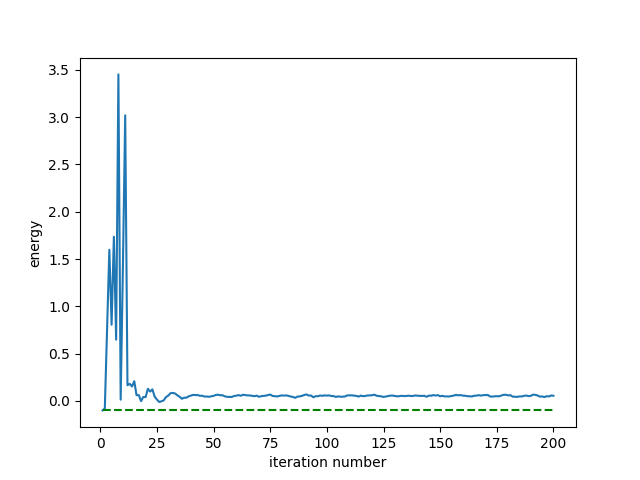
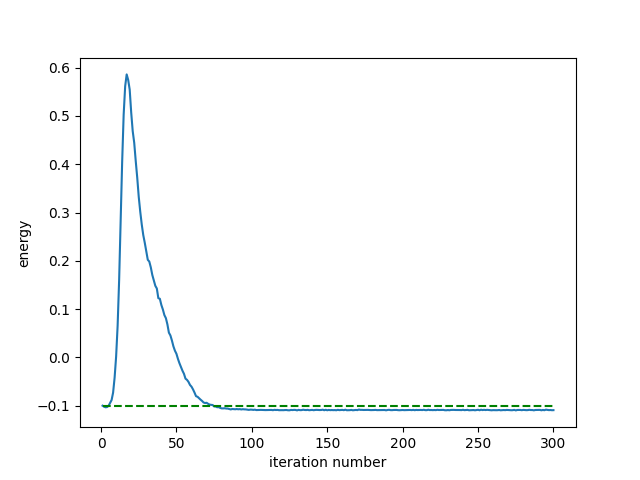
added RMSProp

diff --git a/GD_vs_SPSA_QMLCir.py b/GD_vs_SPSA_QMLCir.py
@@ -17,6 +17,8 @@ def GD(steps, init_params, step_size, type):
         opt = qml.MomentumOptimizer(stepsize=step_size)  
     elif(type == "NMO"):
         opt = qml.NesterovMomentumOptimizer(stepsize=step_size)      
+    elif(type == "RMSProp"):
+        opt = qml.RMSPropOptimizer(stepsize=step_size)   
 
     cost = sim_run
 
@@ -91,8 +93,9 @@ if __name__ == '__main__':
         print("     3. Gradient-descent optimizer with adaptive learning rate, first and second moment (Adam)")
         print("     4. Gradient-descent optimizer with past-gradient-dependent learning rate in each dimension. (Ada)")
         print("     5. Gradient-descent optimizer with momentum. (MO)")
-        print("     6. Gradient-descent optimizer with Nesterov momentum. (NOM)")
-        print("     7. Optimizer with adaptive learning rate, via calculation of the diagonal or block-diagonal approximation to the Fubini-Study metric tensor. (QNG)")
+        print("     6. Gradient-descent optimizer with Nesterov momentum. (NMO)")
+        print("     7. Root mean squared propagation optimizer. (RMSProp)")
+        # print("     7. Optimizer with adaptive learning rate, via calculation of the diagonal or block-diagonal approximation to the Fubini-Study metric tensor. (QNG)")
         print("Input menu ID(s) of optimizers to run (examples: 1,3 or 2): ", end='')
         menu_input = input()   
         menu_input = list(menu_input.split(","))
@@ -100,7 +103,7 @@ if __name__ == '__main__':
         for i in menu_input:
             if(i == '1'):
                 valid_input = True
-                print("GD hyperparameters (input d to use defaults OR any key to continue modifying): ", end='')
+                print("GD hyperparameters (input d to use defaults OR any other key to continue modifying): ", end='')
                 param_spec = input()
                 if(param_spec != "d"):
                     print("Number of iterations (example: 300): ", end='')
@@ -126,7 +129,7 @@ if __name__ == '__main__':
 
             elif(i == '2'):
                 valid_input = True
-                print("SPSA hyperparameters (input d to use defaults OR any key to continue modifying): ", end='')
+                print("SPSA hyperparameters (input d to use defaults OR any other key to continue modifying): ", end='')
                 param_spec = input()
                 if(param_spec != "d"):
                     print("Number of iterations (example: 300): ", end='')
@@ -156,7 +159,7 @@ if __name__ == '__main__':
 
             elif(i == '3'):
                 valid_input = True
-                print("Adam hyperparameters (input d to use defaults OR any key to continue modifying): ", end='')
+                print("Adam hyperparameters (input d to use defaults OR any other key to continue modifying): ", end='')
                 param_spec = input()
                 if(param_spec != "d"):
                     print("Number of iterations (example: 300): ", end='')
@@ -182,7 +185,7 @@ if __name__ == '__main__':
 
             elif(i == '4'):
                 valid_input = True
-                print("Ada hyperparameters (input d to use defaults OR any key to continue modifying): ", end='')
+                print("Ada hyperparameters (input d to use defaults OR any other key to continue modifying): ", end='')
                 param_spec = input()
                 if(param_spec != "d"):
                     print("Number of iterations (example: 300): ", end='')
@@ -208,7 +211,7 @@ if __name__ == '__main__':
 
             elif(i == '5'):
                 valid_input = True
-                print("MO hyperparameters (input d to use defaults OR any key to continue modifying): ", end='')
+                print("MO hyperparameters (input d to use defaults OR any other key to continue modifying): ", end='')
                 param_spec = input()
                 if(param_spec != "d"):
                     print("Number of iterations (example: 300): ", end='')
@@ -234,7 +237,7 @@ if __name__ == '__main__':
 
             elif(i == '6'):
                 valid_input = True
-                print("NMO hyperparameters (input d to use defaults OR any key to continue modifying): ", end='')
+                print("NMO hyperparameters (input d to use defaults OR any other key to continue modifying): ", end='')
                 param_spec = input()
                 if(param_spec != "d"):
                     print("Number of iterations (example: 300): ", end='')
@@ -256,11 +259,12 @@ if __name__ == '__main__':
                 print("NMO plot saved to results directory")
                 print("NMO time elapsed: " + str(time_stop - time_start))
                 print()
-                plot_result(result, "NMO")                                  
+                plot_result(result, "NMO")   
 
+            
             elif(i == '7'):
                 valid_input = True
-                print("QNG hyperparameters (input d to use defaults OR any key to continue modifying): ", end='')
+                print("RMSProp hyperparameters (input d to use defaults OR any other key to continue modifying): ", end='')
                 param_spec = input()
                 if(param_spec != "d"):
                     print("Number of iterations (example: 300): ", end='')
@@ -276,13 +280,39 @@ if __name__ == '__main__':
                     step_size = 0.3  
 
                 time_start = time.time()
-                print("Running QNG---------------------------------------------------------------------------------------------")
-                result = QNG(niter, init_params, step_size)
+                print("Running RMSProp---------------------------------------------------------------------------------------------")
+                result = GD(niter, init_params, step_size, "RMSProp")
                 time_stop = time.time()
-                print("QNG plot saved to results directory")
-                print("QNG time elapsed: " + str(time_stop - time_start))
+                print("RMSProp plot saved to results directory")
+                print("RMSProp time elapsed: " + str(time_stop - time_start))
                 print()
-                plot_result(result, "QNG")
+                plot_result(result, "RMSProp")                               
+
+            # elif(i == '7'):
+            #     valid_input = True
+            #     print("QNG hyperparameters (input d to use defaults OR any other key to continue modifying): ", end='')
+            #     param_spec = input()
+            #     if(param_spec != "d"):
+            #         print("Number of iterations (example: 300): ", end='')
+            #         niter = int(input())
+            #         print("Initial parameters (example: 1.57079633,1.57079633,1.57079633,1.57079633,1.57079633,1.57079633): ", end='')
+            #         init_params = input()
+            #         init_params = [float(item) for item in init_params.split(',')]
+            #         print("Stepsize(example 0.2): ", end='')
+            #         step_size = float(input())
+            #     else: 
+            #         niter = 100
+            #         init_params = np.pi/2*np.ones(6)
+            #         step_size = 0.3  
+
+            #     time_start = time.time()
+            #     print("Running QNG---------------------------------------------------------------------------------------------")
+            #     result = QNG(niter, init_params, step_size)
+            #     time_stop = time.time()
+            #     print("QNG plot saved to results directory")
+            #     print("QNG time elapsed: " + str(time_stop - time_start))
+            #     print()
+            #     plot_result(result, "QNG")
     
     
     
